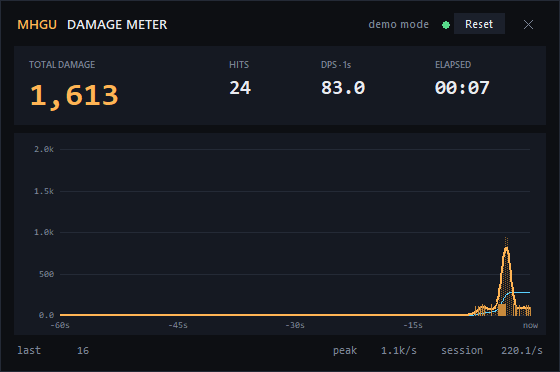
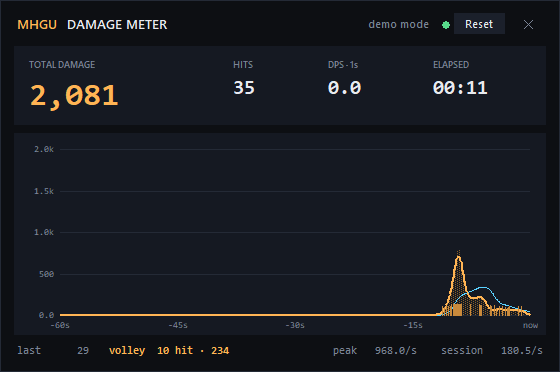
feat: volley grouping and training-area test guide

diff --git a/mhgu_damage/meter.py b/mhgu_damage/meter.py
@@ -28,6 +28,9 @@ DEFAULT_BREAKPOINT = 0xC02074
 MIN_DAMAGE = 1
 MAX_DAMAGE = 1_000_000
 
+#: hits separated by less than this are treated as one volley
+VOLLEY_GAP = 0.8
+
 
 @dataclass(slots=True)
 class Hit:
@@ -47,6 +50,9 @@ class Stats:
     dps_5s: float = 0.0
     last_hit: int = 0
     peak_dps: float = 0.0
+    volley_hits: int = 0
+    volley_damage: int = 0
+    volley_count: int = 0
     status: str = "starting"
     connected: bool = False
 
@@ -78,6 +84,12 @@ class DamageMeter:
         self._thread: threading.Thread | None = None
         self._base: int | None = None
         self._hits_seen = 0
+        self._volley_hits = 0
+        self._volley_damage = 0
+        self._last_volley_hits = 0
+        self._last_volley_damage = 0
+        self._volley_count = 0
+        self._last_hit_time = 0.0
 
     # ------------------------------------------------------------------ public
     def start(self) -> None:
@@ -101,15 +113,33 @@ class DamageMeter:
             self._peak_dps = 0.0
             self._hits_seen = 0
             self._last_index = None
+            self._volley_hits = 0
+            self._volley_damage = 0
+            self._last_volley_hits = 0
+            self._last_volley_damage = 0
+            self._volley_count = 0
+            self._last_hit_time = 0.0
 
     def add_hit(self, damage: int, index: int = 0, entry: int = 0, when: float | None = None) -> None:
         if not (MIN_DAMAGE <= damage <= MAX_DAMAGE):
             return
         t = time.monotonic() if when is None else when
         with self._lock:
+            # A pierce volley is a burst of hits; a gap longer than VOLLEY_GAP
+            # starts a new volley.  This is the metric that matters for the
+            # high-FPS pierce test: hits per shot, not just total damage.
+            if self._volley_hits and (t - self._last_hit_time) > VOLLEY_GAP:
+                self._last_volley_hits = self._volley_hits
+                self._last_volley_damage = self._volley_damage
+                self._volley_count += 1
+                self._volley_hits = 0
+                self._volley_damage = 0
             self._events.append(Hit(t, damage, index, entry))
             self._last_hit = damage
             self._hits_seen += 1
+            self._volley_hits += 1
+            self._volley_damage += damage
+            self._last_hit_time = t
 
     def snapshot(self) -> Stats:
         now = time.monotonic()
@@ -120,6 +150,17 @@ class DamageMeter:
             status = self._status
             connected = self._connected
             base = self._base
+            vh = self._volley_hits
+            vd = self._volley_damage
+            lvh = self._last_volley_hits
+            lvd = self._last_volley_damage
+            vc = self._volley_count
+            last_hit_time = self._last_hit_time
+
+        if vh and (now - last_hit_time) <= VOLLEY_GAP:
+            volley_hits, volley_damage, volley_count = vh, vd, vc + 1
+        else:
+            volley_hits, volley_damage, volley_count = lvh, lvd, vc
 
         total = sum(h.damage for h in events)
         elapsed = max(0.0, now - start)
@@ -145,6 +186,9 @@ class DamageMeter:
             dps_5s=dps_5s,
             last_hit=last_hit,
             peak_dps=peak,
+            volley_hits=volley_hits,
+            volley_damage=volley_damage,
+            volley_count=volley_count,
             status=status,
             connected=connected,
         )

diff --git a/mhgu_damage/ui.py b/mhgu_damage/ui.py
@@ -135,12 +135,17 @@ class MeterWindow:
         footer = tk.Frame(outer, bg=BG)
         footer.pack(fill="x", pady=(6, 0))
         self.last_var = tk.StringVar(value="last  —")
+        self.volley_var = tk.StringVar(value="volley  —")
         self.peak_var = tk.StringVar(value="peak  —")
         self.session_var = tk.StringVar(value="session  —")
         tk.Label(
             footer, textvariable=self.last_var, bg=BG, fg=MUTED,
             font=("Consolas", 8),
         ).pack(side="left")
+        tk.Label(
+            footer, textvariable=self.volley_var, bg=BG, fg=ACCENT,
+            font=("Consolas", 8, "bold"),
+        ).pack(side="left", padx=(14, 0))
         tk.Label(
             footer, textvariable=self.session_var, bg=BG, fg=MUTED,
             font=("Consolas", 8),
@@ -273,6 +278,7 @@ class MeterWindow:
         self.time_var.set(f"{minutes:02d}:{seconds:02d}")
 
         self.last_var.set(f"last  {st.last_hit:>6,}")
+        self.volley_var.set(f"volley  {st.volley_hits} hit · {st.volley_damage:,}")
         self.peak_var.set(f"peak  {fmt_dps(st.peak_dps):>6}/s")
         self.session_var.set(f"session  {fmt_dps(st.dps_session):>6}/s")
 
